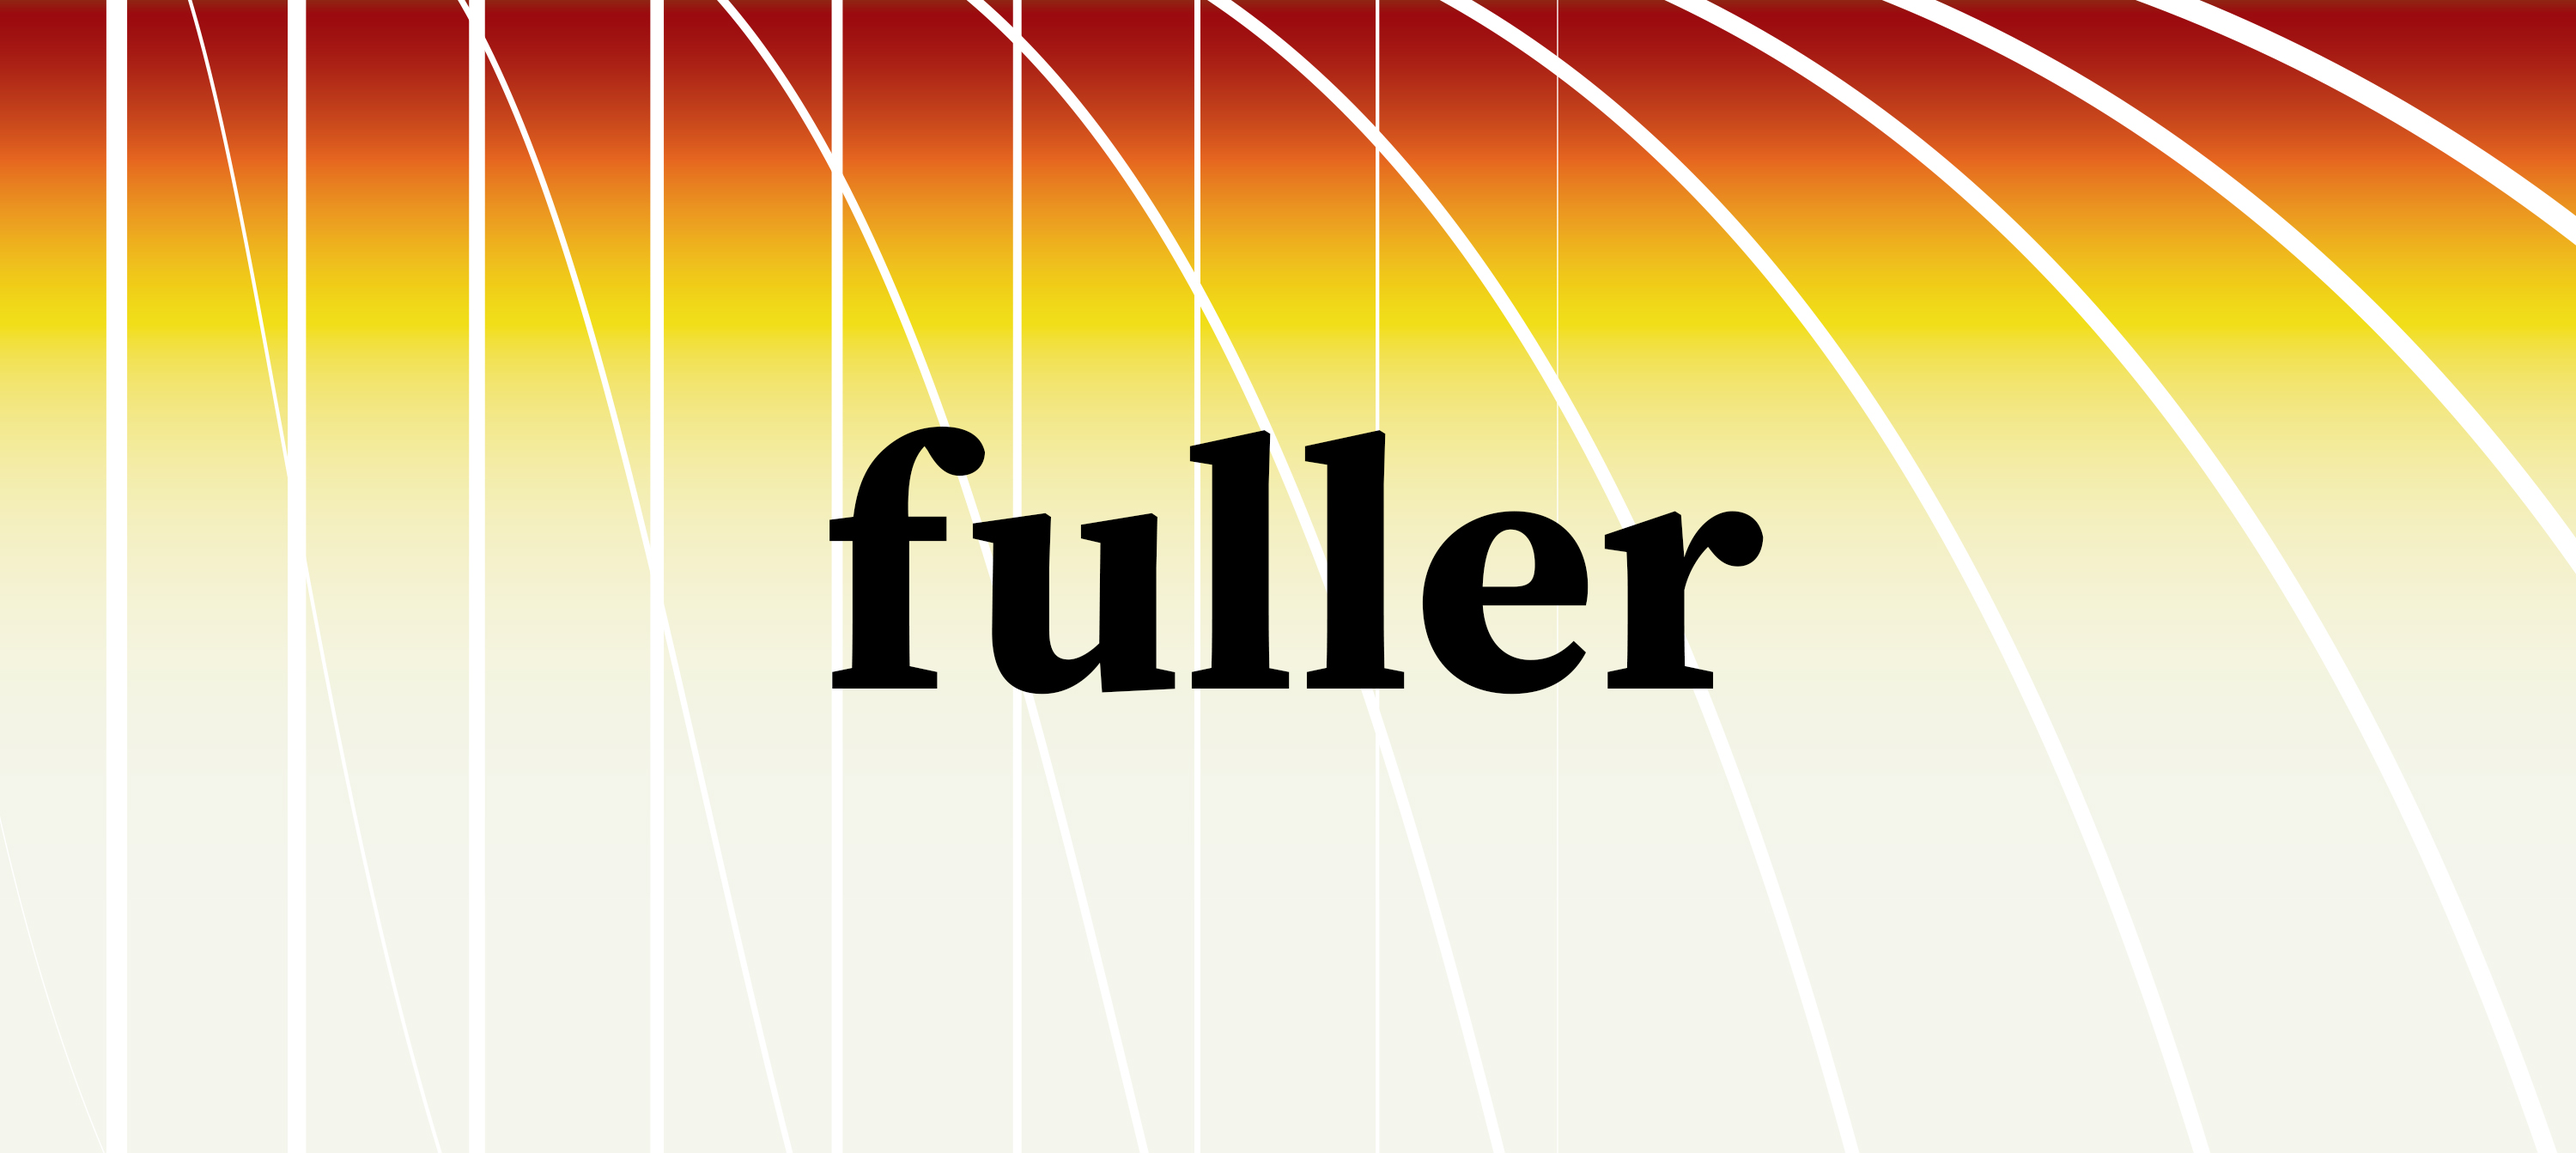
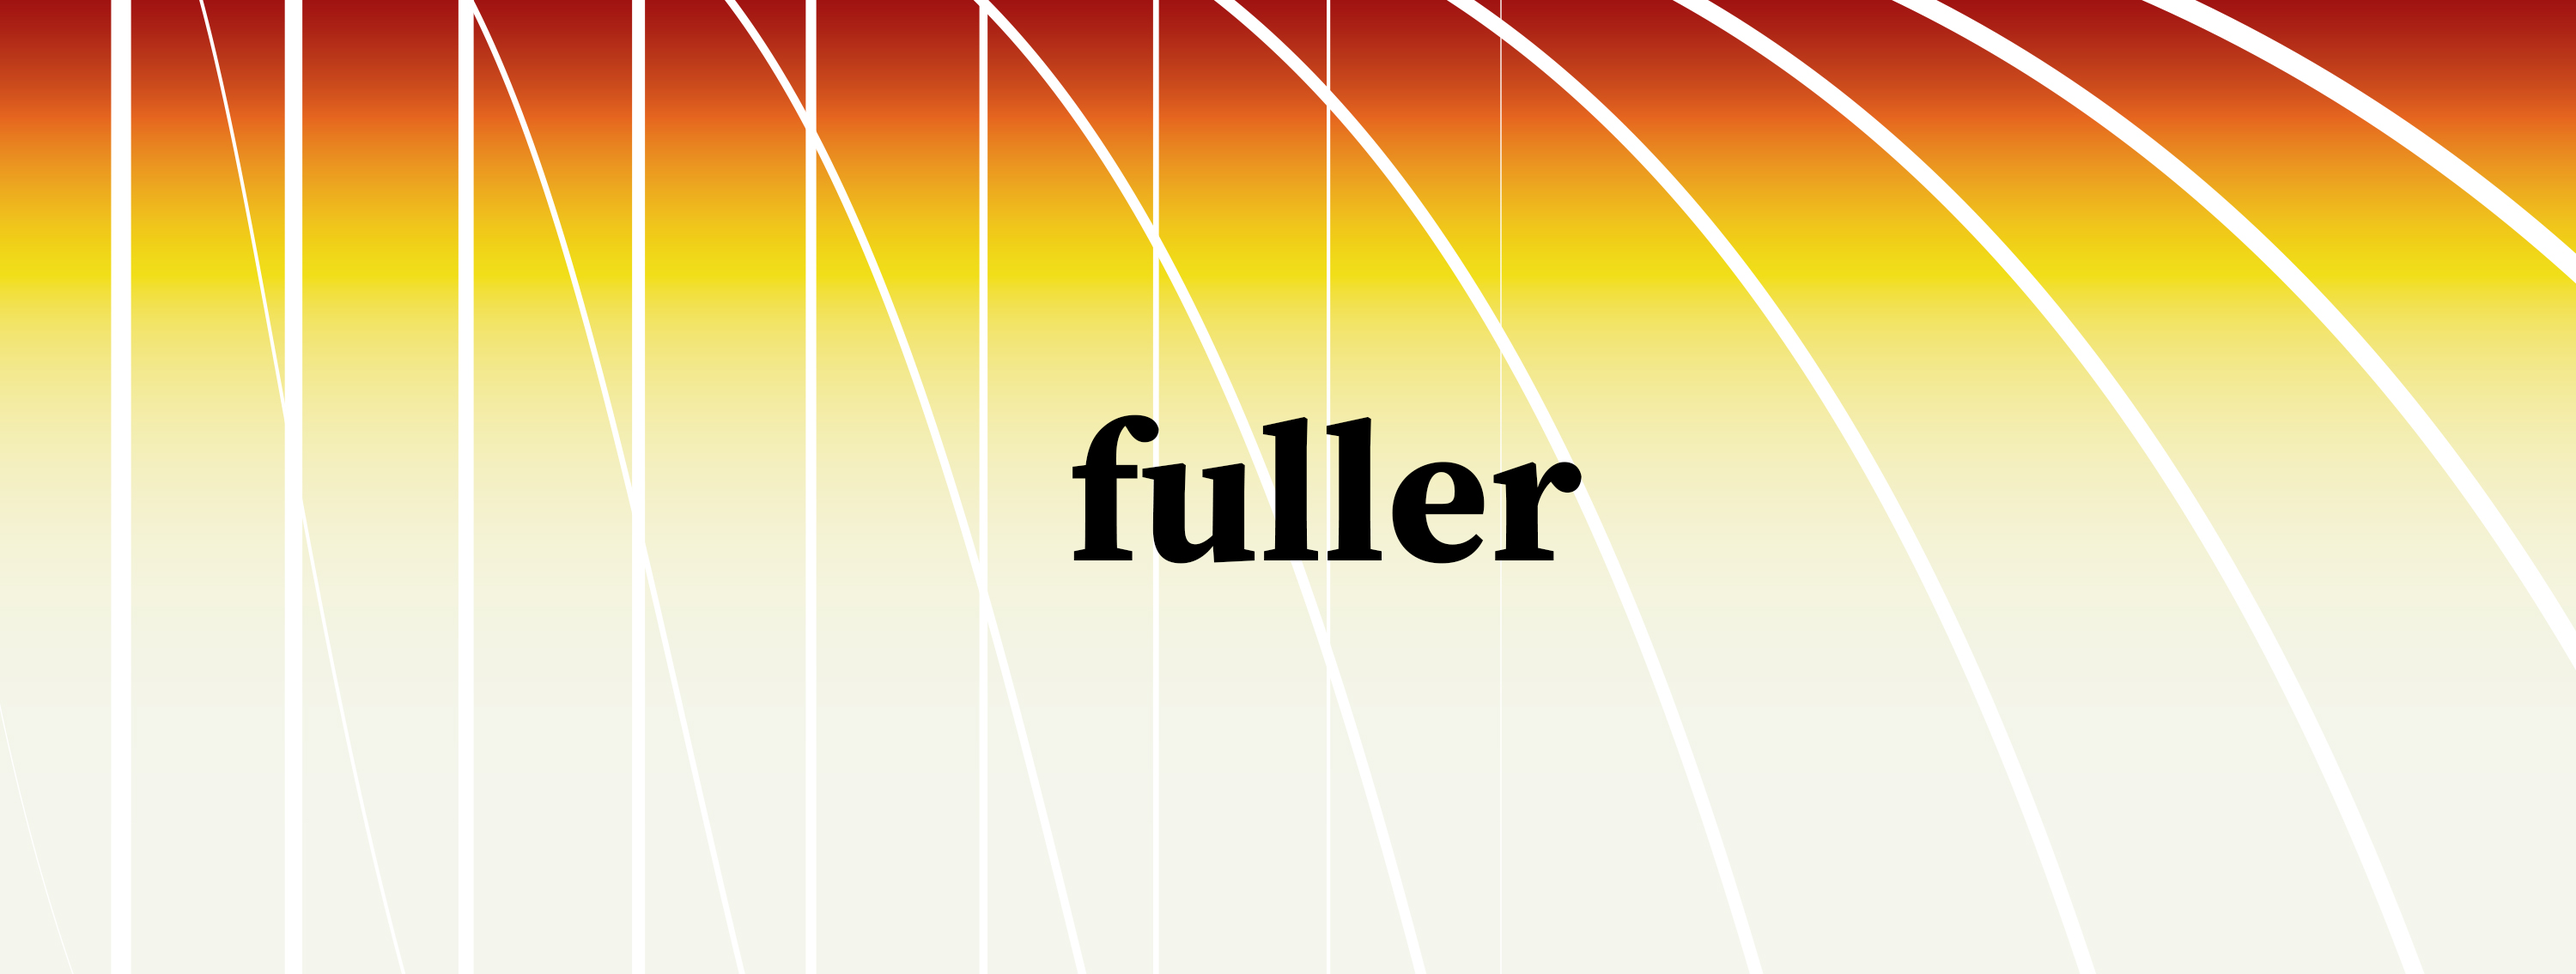
Update layout and hover effects

diff --git a/style.css b/style.css
@@ -1,5 +1,6 @@
 html {
 	background-color: #eeeeec;
+	font-family: 'Muli', sans-serif;
 }
 
 .container {
@@ -26,7 +27,6 @@ header {
 nav {
 	display: flex;
 	grid-area: nav;
-	font-family: 'Muli', sans-serif;
 	font-size: 14px;
 	font-weight: 700;
 	color: #7AD1E4;
@@ -46,7 +46,7 @@ nav ul li {
 	padding: 14px 0px 14px 32px;
 }
 
-nav a:link {
+nav a:link, nav a:active, nav a:visited {
 	font: inherit;
 	color: inherit;
 	text-decoration: none;
@@ -87,7 +87,7 @@ nav ul li.parent ul.child li a {
 .main {
 	display: grid;
 	grid-template-columns: 1fr 1fr;
-	grid-gap: 40px 100px;
+	grid-gap: 2rem 3rem;
 	grid-auto-rows: 1fr;
 	grid-auto-flow: row;
 	justify-content: 
@@ -95,21 +95,25 @@ nav ul li.parent ul.child li a {
 
 .work {
 	width: 1fr 1fr;
+	position: relative;
 }
 
 .work img {
 	width: 100%;
+	transition: transform .2s;
 }
 
-img a:hover {
+.work img:hover {
 	cursor: pointer;
+	-webkit-transform: scale(1.05);
+	transform: scale(1.05);
 }
 
 /* .work p {
-	font-family: 'Muli', sans-serif;
 	font-size: 12px;
+	font-weight: 700;
 	font-style: italic;
-	color: #7AD1E4;
+	color: #0d255f;
 	text-align: right;
 	letter-spacing: 1px;
 } */
@@ -118,6 +122,8 @@ img a:hover {
 	position: absolute;
 	top: 234px;
 	left: -56px;
+	width: 100%;
+	height: 100%;
 }
 
 img {

diff --git a/index.html b/index.html
@@ -12,14 +12,14 @@
 		<a href="index.html"><img id="logo" src="images/logo.png"></a>
 		<nav>
 			<ul>
-			<li class="parent" href="#">work
+			<li class="parent"><a href="#">work</a>
 				<ul class="child">
 					<li><a href="haze.html">haze magazine</a></li>
-					<li>fuller milk</li>
-					<li>wes anderson</li>
-					<li>aenigma</li>
+					<li><a href="fuller.html">fuller milk</a></li>
+					<li><a href="wes_anderson.html">wes anderson</a></li>
+					<li><a href="aenigma.html">ænigma</a></li>
 				</ul></li>
-			<li>photography</li>
+			<li style="opacity:0.5">photography</li>
 			<li><a href="aboutme.html">about me</a></li>
 			</ul>
 		</nav>
@@ -31,14 +31,14 @@
 			<!-- <p>editorial</p> -->
 		</div>
 		<div class="work b">
-			<a href="#"><img src="images/fuller.jpg"></a>
+			<a href="fuller.html"><img src="images/fuller.jpg"></a>
 			<!-- <p>packaging</p> -->
 		</div>
 		<div class="work c">
-			<a href="#"><img src="images/wes_anderson.jpg"></a>
+			<a href="wes_anderson.html"><img src="images/wes_anderson.jpg"></a>
 		</div>
 		<div class="work d">
-			<a href="#"><img src="images/aenigma.jpg"></a>
+			<a href="aenigma.html"><img src="images/aenigma.jpg"></a>
 		</div>
 	</div>
 </div>

diff --git a/aboutme.html b/aboutme.html
@@ -14,18 +14,18 @@
 			<ul>
 			<li class="parent" href="#">work
 				<ul class="child">
-					<li><a href="#">haze magazine</a></li>
-					<li><a href="#">fuller milk</a></li>
-					<li><a href="#">wes anderson</a></li>
-					<li><a href="#">aenigma</a></li>
+					<li><a href="haze.html">haze magazine</a></li>
+					<li><a href="fuller.html">fuller milk</a></li>
+					<li><a href="wes_anderson.html">wes anderson</a></li>
+					<li><a href="aenigma.html">ænigma</a></li>
 				</ul></li>
-			<li><a href="#">photography</a></li>
+			<li style="opacity:0.5">photography</a></li>
 			<li>about me</li>
 			</ul>
 		</nav>
 	</header>
 	<div class="hero_img">
-		<img style="width:30%;" src="images/me.jpg">
+		<img style="height:68%;" src="images/me.jpg">
 		<h3></h3>
 	</div>
 </div>
